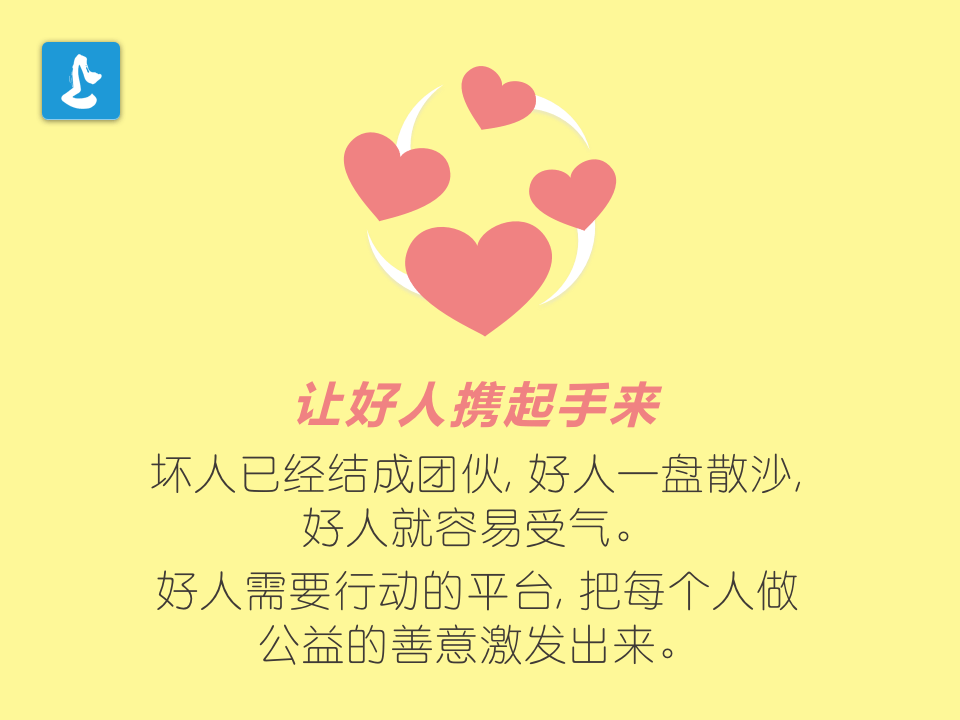
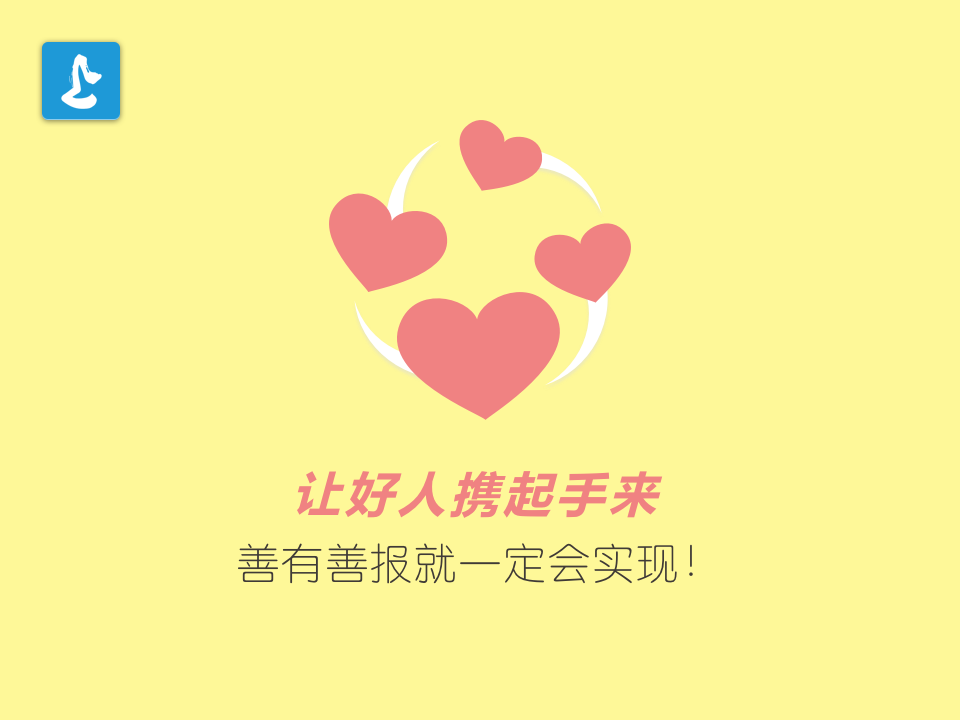
feat:support pc

Changed region(s): [[0.1562, 0.0917, 0.8438, 0.9167], [0.75, 0.7944, 0.8438, 0.8556]]

diff --git a/pens/demo/shanzan.html b/pens/demo/shanzan.html
@@ -81,12 +81,16 @@
             padding: 0 6px;
         }
 
+        .pc-button {
+            margin-top: 12px;
+        }
+
         .buttons img {
             width: 100%;
         }
 
         .introduce {
-            margin: 22px 15px 12px;
+            margin: 22px 0px 12px;
             background: white;
             padding: 12px;
             border-radius: 2px;
@@ -121,7 +125,7 @@
             font-size: 14px;
             line-height: 1.5em;
             font-family: serif;
-            margin-top: 5px;
+            margin-top: 10px;
         }
 
         .introduce .header .brand:after {
@@ -151,6 +155,40 @@
             position: relative;
             top: 3px;
         }
+
+        .sm-show {
+            display: block;
+        }
+
+        @media (min-width: 768px) {
+            .sm-show {
+                display: none;
+            }
+            .md-show {
+                display: block;
+            }
+            .banners {
+                /*max-width: 800px;*/
+                margin: auto;
+            }
+            .buttons {
+                text-align: center;
+                margin: 0 82px;
+            }
+            .buttons a {
+                float: left;
+                width: 33.3333%;
+                display: block;
+                margin-top: 22px;
+                padding: 0 8px;
+            }
+            .pc-button {
+                margin-top: 0px;
+            }
+            .introduce {
+                padding: 12px 34px;
+            }
+        }
     </style>
 </head>
 
@@ -159,10 +197,10 @@
         <div class="banners">
             <ul id="sliders" class="sliders">
                 <li id="b1" class="banner active">
-                    <img src="image/shanzan_banner1.png" alt="">
+                    <img id="b1-img" src="image/shanzan_banner1.png" alt="">
                 </li>
                 <li id="b2" class="banner">
-                    <img src="image/shanzan_banner2.png" alt="">
+                    <img id="b2-img" src="image/shanzan_banner2.png" alt="">
                 </li>
                 <div class="circles">
                     <div id="c1" class="circle"></div>
@@ -177,7 +215,7 @@
             <a href="#">
                 <img src="image/shanzan_android.png" alt="">
             </a>
-            <a href="#" style="margin-top: 12px;">
+            <a href="#" class="pc-button">
                 <img src="image/shanzan_pc.png" alt="">
             </a>
         </div>
@@ -213,13 +251,19 @@
             var height = parseInt(width / 4 * 3);
             var sliders = document.getElementById('sliders');
             var banner1 = document.getElementById('b1');
+            banner1.img = document.getElementById('b1-img');
             banner1.circle = document.getElementById('c1')
             var banner2 = document.getElementById('b2');
+            banner2.img = document.getElementById('b2-img');
             banner2.circle = document.getElementById('c2')
 
             console.log('w,h', width, height);
 
             sliders.style.height = height + 'px';
+            banner1.img.style.height = height + 'px';
+            banner2.img.style.height = height + 'px';
+
+            autoResize();
 
             var left = banner1;
             var right = banner2;
@@ -264,6 +308,29 @@
                         animate(delay, step);
                     }, delay);
                 }
+            }
+
+            function autoResize() {
+                var width = getScreenWidth();
+                var height = parseInt(width / 4 * 3);
+
+                if (width >= 768) {
+                    // width = 800;
+                    height = parseInt(width / 3);
+                    banner1.img.src = 'image/pcbanner1.png';
+                    banner2.img.src = 'image/pcbanner2.png';
+                } else {
+                    height = parseInt(width / 4 * 3);
+                    banner1.img.src = 'image/shanzan_banner1.png';
+                    banner2.img.src = 'image/shanzan_banner2.png';
+                }
+
+                banner1.img.style.height = height + 'px';
+                banner2.img.style.height = height + 'px';
+                sliders.style.height = height + 'px';
+                setTimeout(function() {
+                    autoResize();
+                }, 500);
             }
         }
 
